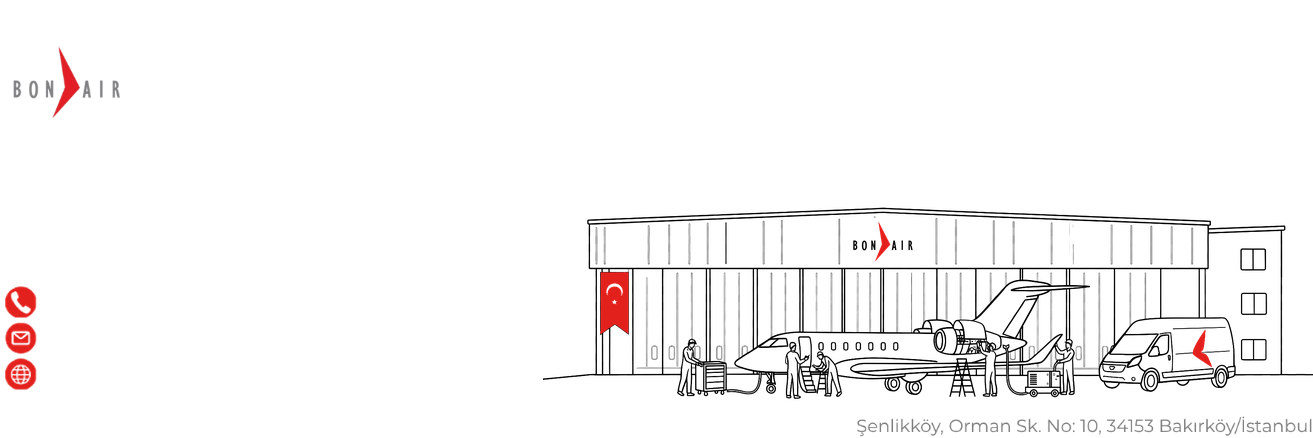
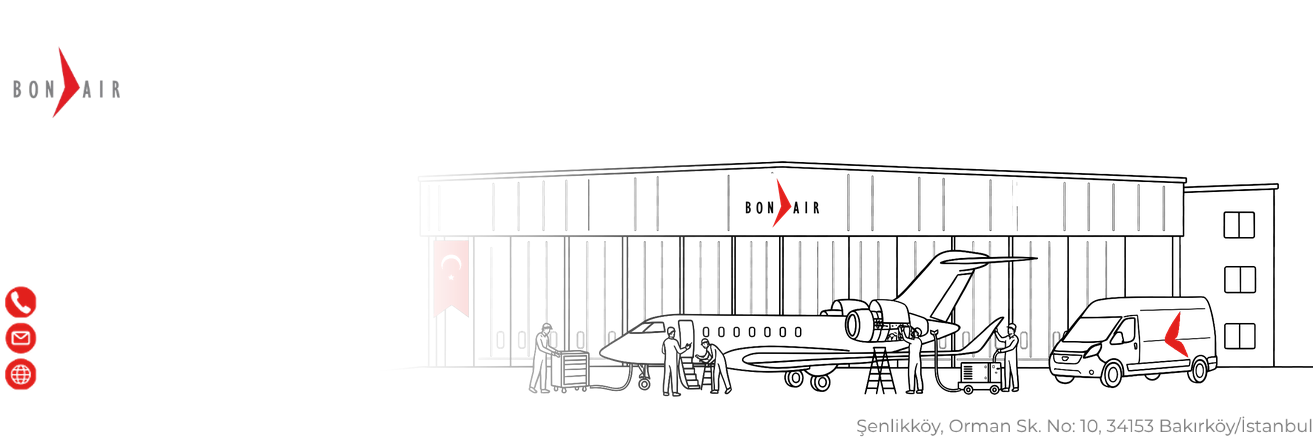
Hangar buyutuldu ve sol kenarina yumusak gecis eklendi
- Hangar 770 -> 950px; artik isim/unvan alaninin uzerine tasiyor
- Sol kenarda smoothstep gecis (430px): metne dogru yavasca siliniyor,
  isim sonunda hangar opakligi ~%53 -> cakisma rahatsiz etmiyor
- Isim/unvan maks genislik 520 -> 585 (gecis sayesinde daha genis alan)

Claude-Session: https://claude.ai/code/session_016U9xWWhHp4qEDJEv488EKR

Changed region(s): [[0.3435, 0.3562, 1.0, 0.9201]]

diff --git a/index.html b/index.html
@@ -238,8 +238,8 @@
   // ---- Sablon uzerine cizim ayarlari (orijinal gorselden kalibre edildi) ----
   // [alanAdi]: x, taban(y), boyut(px), harfAraligi(px), font, maksGenislik
   var DRAW = {
-    name:  { x: 4,  by: 207, size: 60.0, ls: 0, font: "'MontB'", max: 520 },
-    title: { x: 5,  by: 242, size: 25.0, ls: 0, font: "'MontR'", max: 520 },
+    name:  { x: 4,  by: 207, size: 60.0, ls: 0, font: "'MontB'", max: 585 },
+    title: { x: 5,  by: 242, size: 25.0, ls: 0, font: "'MontR'", max: 585 },
     // Iletisim satirlari: ust=telefon, orta=e-posta, alt=web. Ucu de ayni x'ten
     // baslar (ikon mürekkebi x=30'da biter, metin x=39'dan baslar).
     phone: { x: 48, by: 311.0, size: 25, ls: 0, font: "'MontR'", max: 430 },
